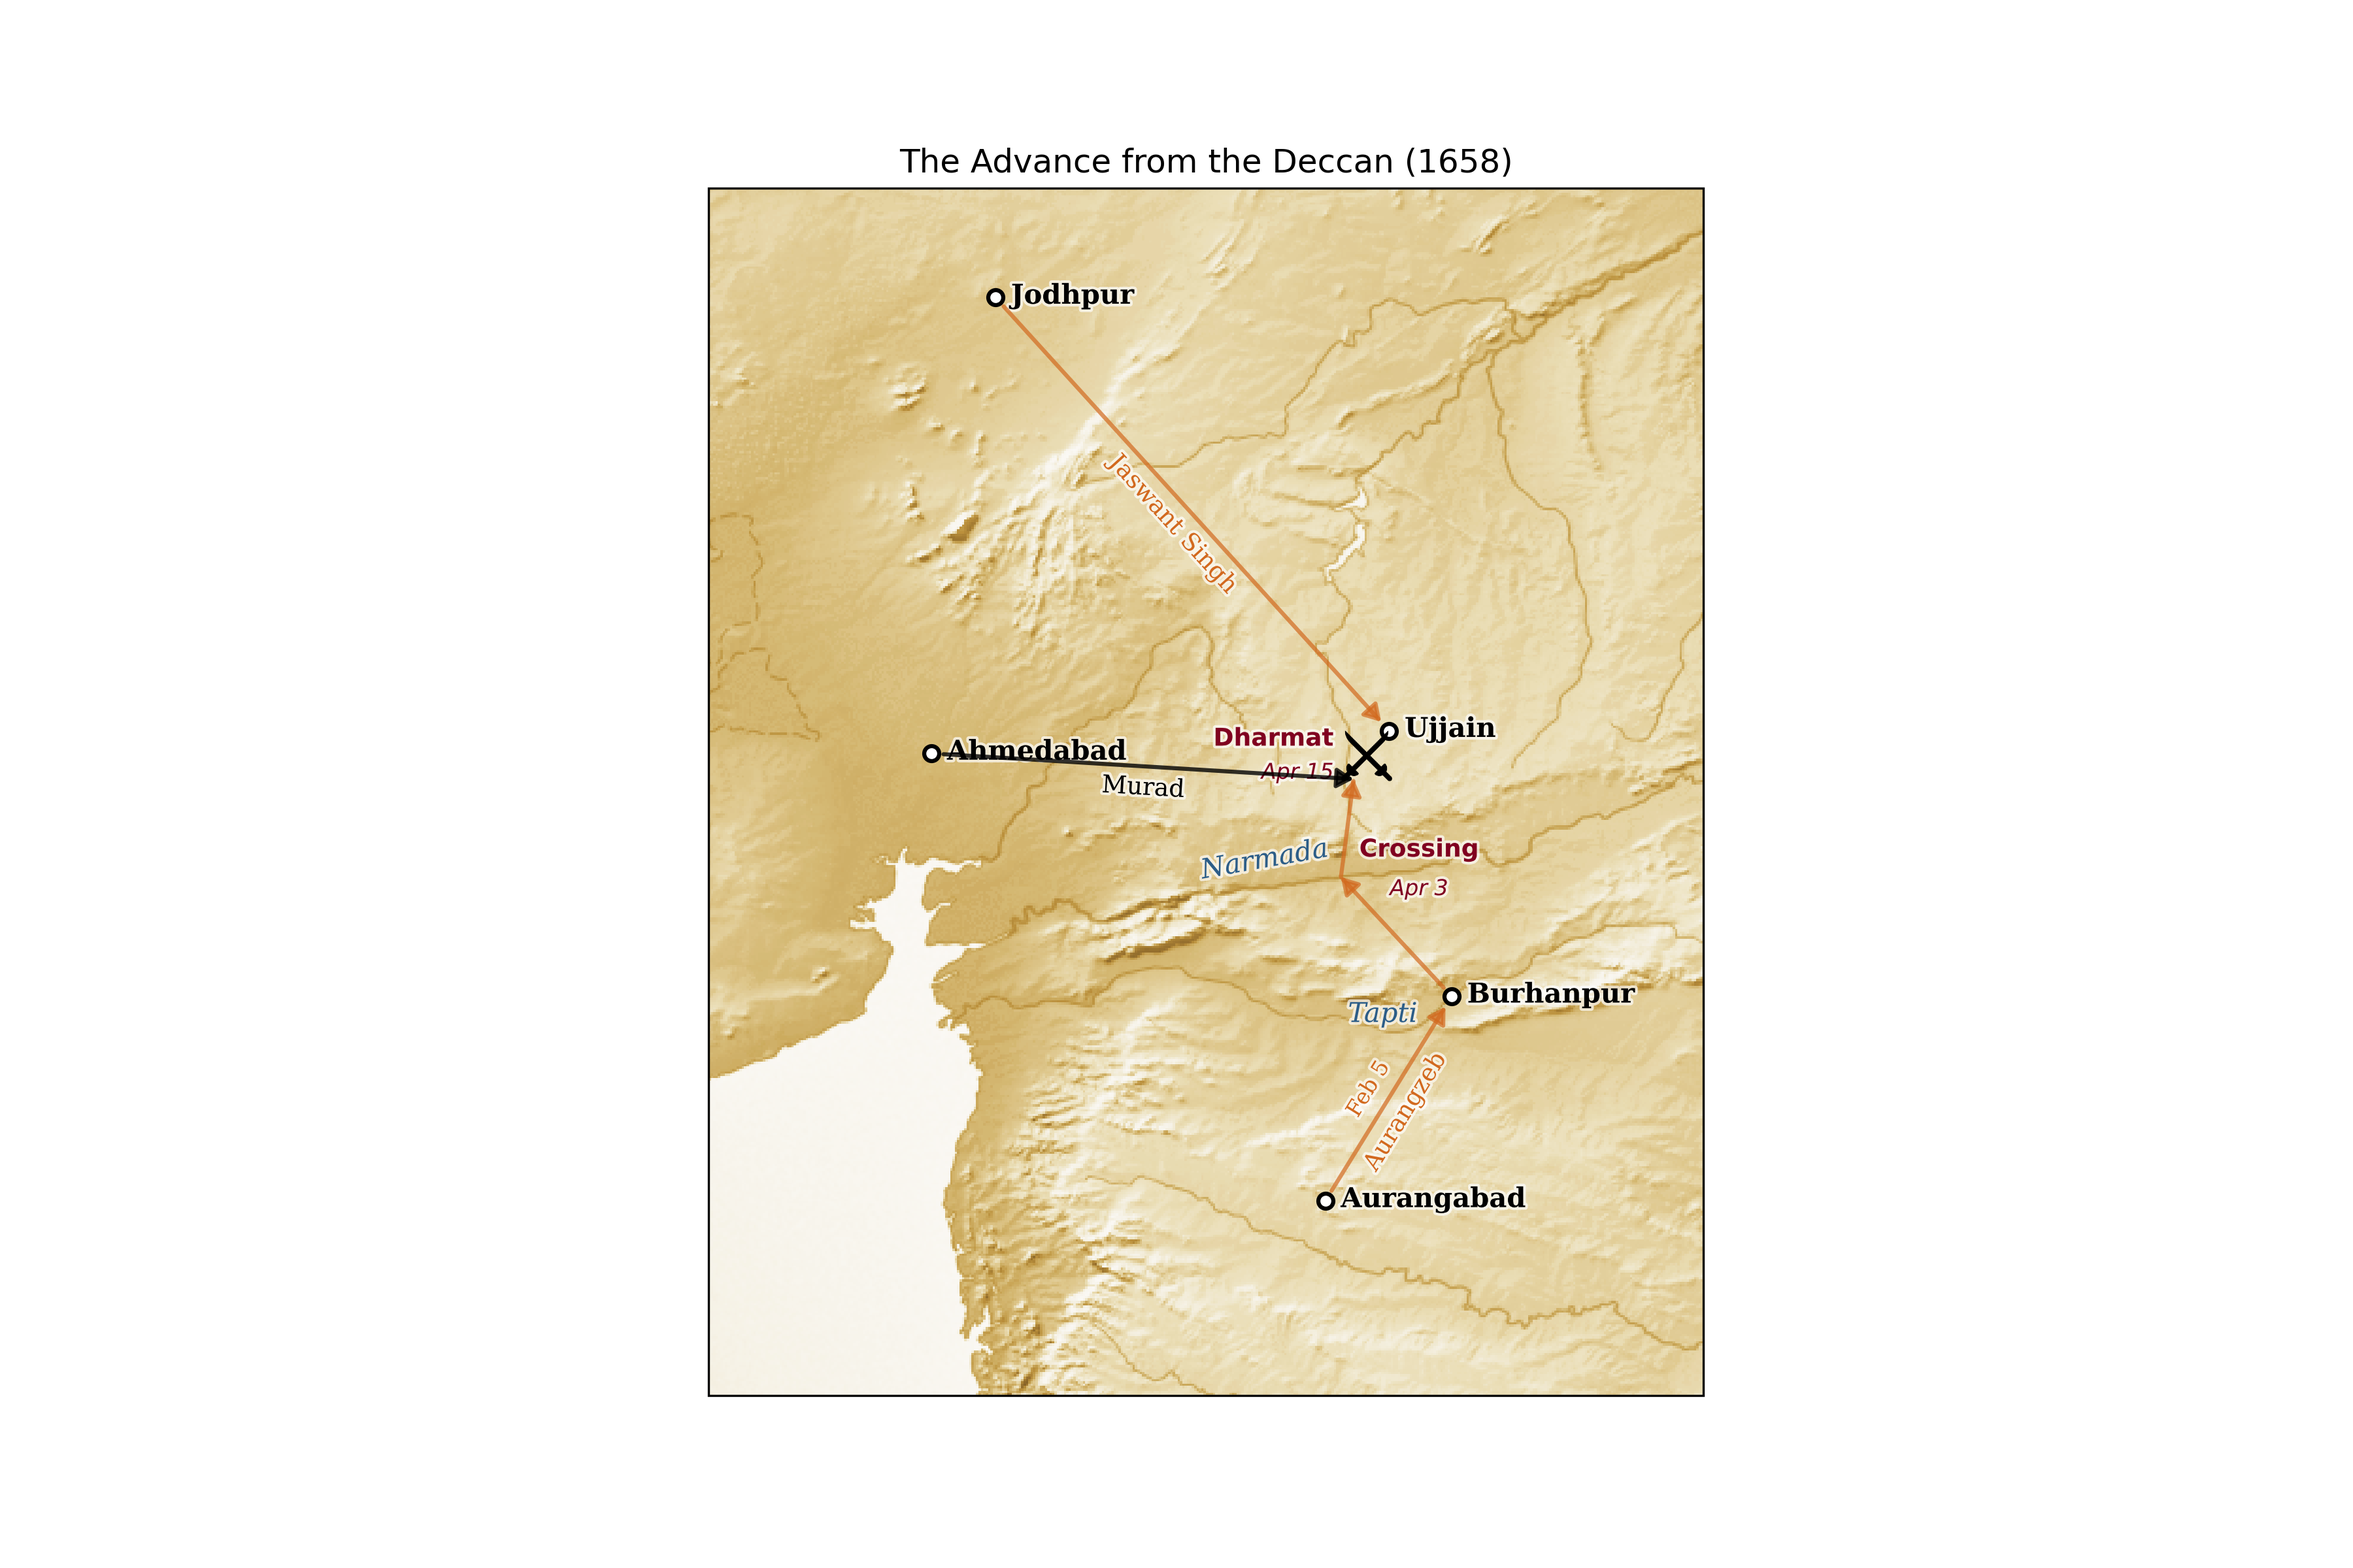
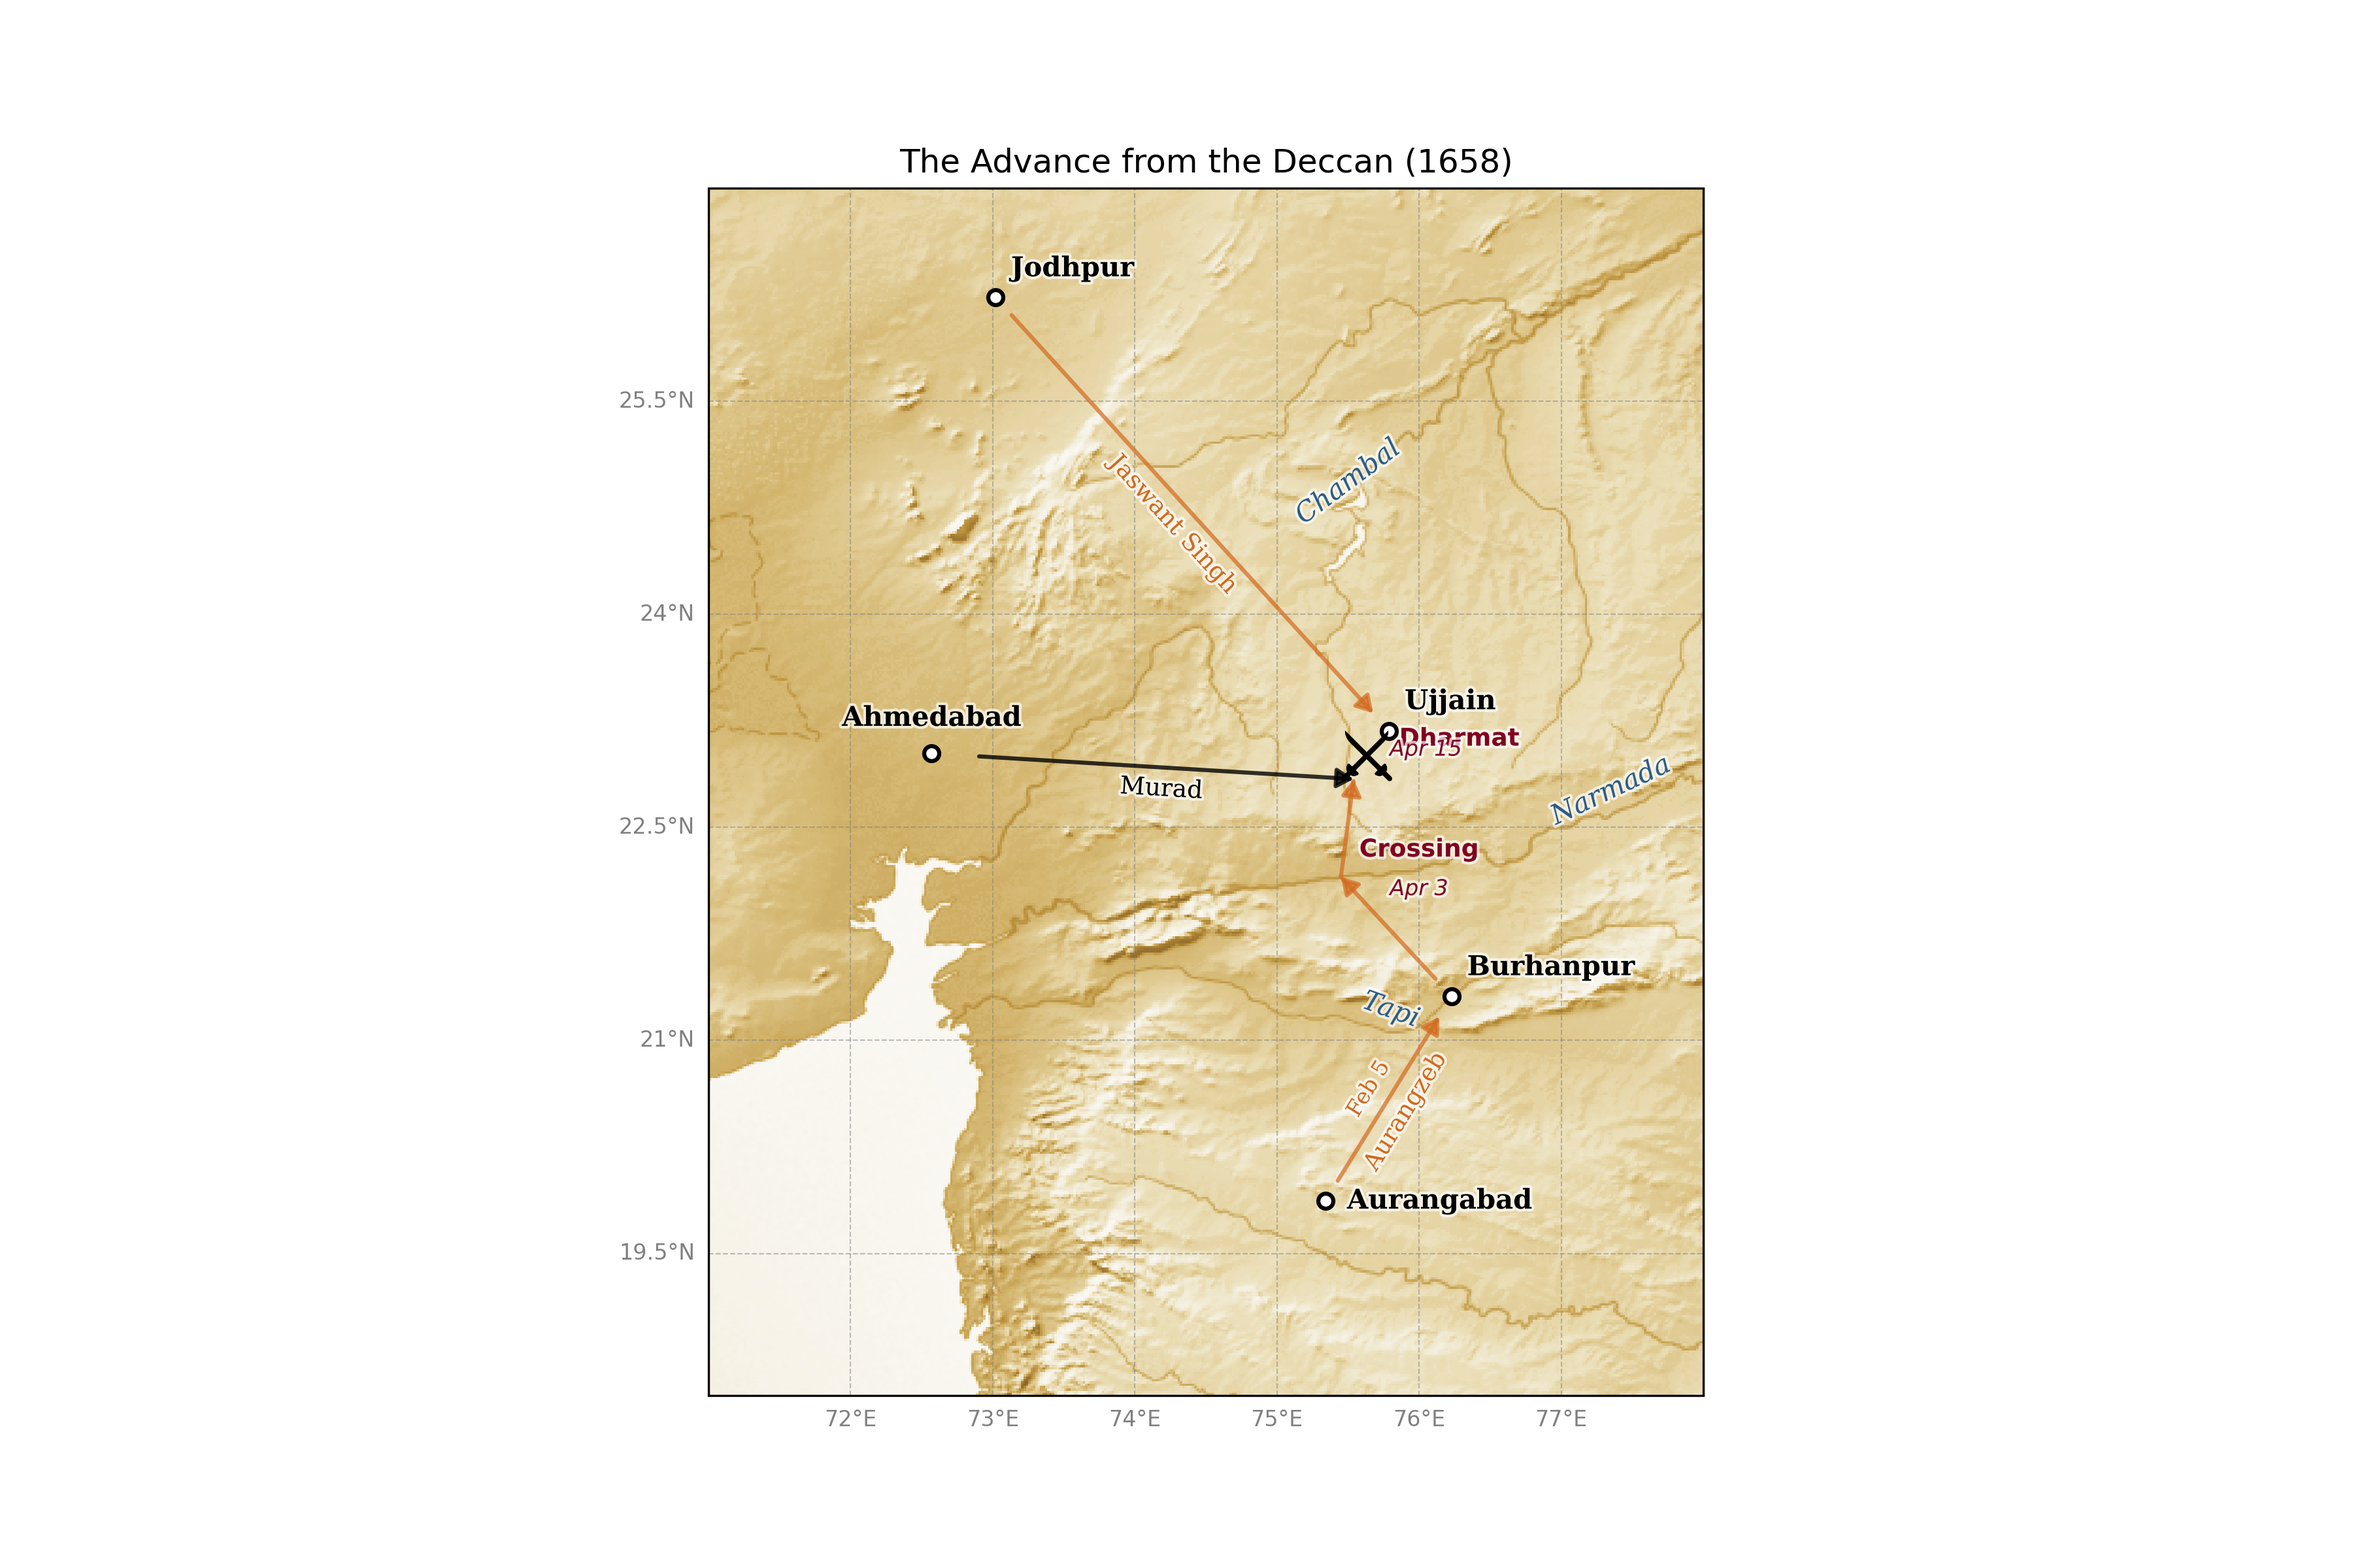
debugging river placement

diff --git a/src/history_cartopy/labels.py b/src/history_cartopy/labels.py
@@ -14,6 +14,22 @@ from history_cartopy.placement import LabelCandidate, PRIORITY
 logger = logging.getLogger('history_cartopy.labels')
 
 
+def _bbox_within_extent(bbox, extent):
+    """
+    Check if a bounding box is fully within map extents.
+
+    Args:
+        bbox: (x1, y1, x2, y2) bounding box in degrees
+        extent: [west, east, south, north] map extents
+
+    Returns:
+        True if bbox is fully within extent
+    """
+    west, east, south, north = extent
+    x1, y1, x2, y2 = bbox
+    return x1 >= west and x2 <= east and y1 >= south and y2 <= north
+
+
 def collect_labels(gazetteer, manifest, placement_manager, data_dir=None):
     """
     Collect all label data without rendering.
@@ -248,7 +264,9 @@ def collect_labels(gazetteer, manifest, placement_manager, data_dir=None):
 
             # Generate LabelCandidate with multiple positions
             positions = []
-            for lon, lat, angle, normal in candidates_raw:
+            filtered_out = 0
+            logger.info(f"River '{river_name}': extent={extent}")
+            for idx, (lon, lat, angle, normal) in enumerate(candidates_raw):
                 element = pm.add_river_label(
                     f"river_{river_name}_pos{len(positions)}",
                     (lon, lat),
@@ -259,12 +277,27 @@ def collect_labels(gazetteer, manifest, placement_manager, data_dir=None):
                     normal=normal,
                     gap_pts=gap_pts,
                 )
+                logger.info(f"  Candidate {idx}: anchor=({lon:.2f}, {lat:.2f}), "
+                           f"bbox=({element.bbox[0]:.2f}, {element.bbox[1]:.2f}, {element.bbox[2]:.2f}, {element.bbox[3]:.2f})")
+                # Filter out candidates whose bounding box extends outside map extents
+                if not _bbox_within_extent(element.bbox, extent):
+                    pm.remove(f"river_{river_name}_pos{len(positions)}")
+                    filtered_out += 1
+                    continue
+
                 element.id = f"river_{river_name}"
                 element.rotation = angle
                 element.normal = normal
                 element.gap_pts = gap_pts
                 pm.remove(f"river_{river_name}_pos{len(positions)}")
                 positions.append(element)
+
+            if filtered_out > 0:
+                logger.info(f"River '{river_name}': filtered {filtered_out} candidates outside map extents")
+
+            if not positions:
+                logger.warning(f"No valid candidate positions for river '{river_name}' (all outside map extents)")
+                continue
 
             candidate = LabelCandidate(
                 id=f"river_{river_name}",
@@ -298,7 +331,8 @@ def collect_labels(gazetteer, manifest, placement_manager, data_dir=None):
 
 
 def render_labels_resolved(ax, city_render_data, river_data, region_data,
-                           resolved_positions, gazetteer, manifest, data_dir=None):
+                           resolved_positions, gazetteer, manifest, data_dir=None,
+                           river_candidates=None, debug_river_candidates=False):
     """
     Render labels using pre-resolved positions.
 
@@ -312,6 +346,8 @@ def render_labels_resolved(ax, city_render_data, river_data, region_data,
         resolved_positions: dict from resolve_greedy() mapping label IDs to PlacementElements
         manifest: the manifest for iconset lookup
         data_dir: data directory path
+        river_candidates: list of LabelCandidate for rivers (for debug rendering)
+        debug_river_candidates: if True, render all river candidates instead of resolved
     """
     from history_cartopy.styles import get_deg_per_pt
 
@@ -418,17 +454,31 @@ def render_labels_resolved(ax, city_render_data, river_data, region_data,
                    river['name'], 'river', rotation=river['rotation'],
                    x_offset=x_offset_pts, y_offset=y_offset_pts)
 
-    # Then render auto-placed rivers from resolved_positions
-    for label_id, resolved in resolved_positions.items():
-        if resolved.type == 'river':
-            rotation = getattr(resolved, 'rotation', 0)
-            # Convert offset from degrees back to points
-            dpp = get_deg_per_pt(ax)
-            x_offset_pts = resolved.offset[0] / dpp if dpp else 0
-            y_offset_pts = resolved.offset[1] / dpp if dpp else 0
-            apply_text(ax, resolved.coords[0], resolved.coords[1],
-                       resolved.text, 'river', rotation=rotation,
-                       x_offset=x_offset_pts, y_offset=y_offset_pts)
+    # Then render auto-placed rivers
+    dpp = get_deg_per_pt(ax)
+    if debug_river_candidates and river_candidates:
+        # Debug mode: render ALL candidate positions
+        for candidate in river_candidates:
+            for idx, pos in enumerate(candidate.positions):
+                rotation = getattr(pos, 'rotation', 0)
+                x_offset_pts = pos.offset[0] / dpp if dpp else 0
+                y_offset_pts = pos.offset[1] / dpp if dpp else 0
+                # Use a lighter color for non-first candidates
+                alpha = 1.0 if idx == 0 else 0.4
+                apply_text(ax, pos.coords[0], pos.coords[1],
+                           pos.text, 'river', rotation=rotation,
+                           x_offset=x_offset_pts, y_offset=y_offset_pts,
+                           alpha=alpha)
+    else:
+        # Normal mode: render only resolved positions
+        for label_id, resolved in resolved_positions.items():
+            if resolved.type == 'river':
+                rotation = getattr(resolved, 'rotation', 0)
+                x_offset_pts = resolved.offset[0] / dpp if dpp else 0
+                y_offset_pts = resolved.offset[1] / dpp if dpp else 0
+                apply_text(ax, resolved.coords[0], resolved.coords[1],
+                           resolved.text, 'river', rotation=rotation,
+                           x_offset=x_offset_pts, y_offset=y_offset_pts)
 
     # Render Regions (fixed positions)
     for region in region_data:

diff --git a/src/history_cartopy/render_map.py b/src/history_cartopy/render_map.py
@@ -298,6 +298,7 @@ def main():
     parser.add_argument('--res', choices=['dev', 'low', 'med', 'high', 'med-yellow', 'high-yellow'], help='Override background resolution')
     parser.add_argument('--output', help='Override output filename')
     parser.add_argument('--debug', action='store_true', help='Enable debug logging')
+    parser.add_argument('--debug-river-candidates', action='store_true', help='Render all river label candidates')
 
     args = parser.parse_args()
 
@@ -399,6 +400,7 @@ def main():
 
     # Create placement manager for overlap detection
     dpp = get_deg_per_pt(ax)
+    logger.info(f"Degrees per point (dpp) = {dpp:.6f}")
     pm = PlacementManager(dpp)
 
     # =========================================================================
@@ -452,7 +454,9 @@ def main():
     # Phase 3: RENDER
     logger.info("Rendering labels")
     render_labels_resolved(ax, city_render_data, river_data, region_data,
-                           resolved_positions, gazetteer, manifest, data_dir=data_dir)
+                           resolved_positions, gazetteer, manifest, data_dir=data_dir,
+                           river_candidates=river_candidates,
+                           debug_river_candidates=args.debug_river_candidates)
 
     logger.info("Rendering campaigns")
     render_campaigns_resolved(ax, campaign_render_data, resolved_positions)

diff --git a/src/history_cartopy/stylemaps.py b/src/history_cartopy/stylemaps.py
@@ -4,7 +4,7 @@ LABEL_STYLES = {
     'city2':   {'fontsize': 9, 'weight': 'normal', 'family': 'serif', 'color': '#333333', 'halo': True},
     'city3':   {'fontsize': 8, 'weight': 'normal', 'family': 'serif', 'color': '#555555', 'halo': True},
     'modern_place': {'fontsize': 7, 'style': 'italic', 'weight': 'normal', 'family': 'sans-serif', 'color': '#888888', 'halo': True},
-    'river':   {'fontsize': 10, 'style': 'italic', 'family': 'serif', 'color': '#2c5d87', 'halo': True},
+    'river':   {'fontsize': 10, 'style': 'italic', 'family': 'serif', 'color': '#2c5d87', 'halo': True, 'ha': 'center', 'va': 'center'},
     'region':  {'fontsize': 20, 'family': 'serif', 'color': '#5d4037', 'alpha': 0.2, 'halo': False},
     'campaign_above': {'fontsize': 9, 'weight': 'normal', 'family': 'serif', 'color': 'black', 'halo': True},
     'campaign_below': {'fontsize': 8, 'weight': 'normal', 'family': 'serif', 'color': 'black', 'halo': True},
